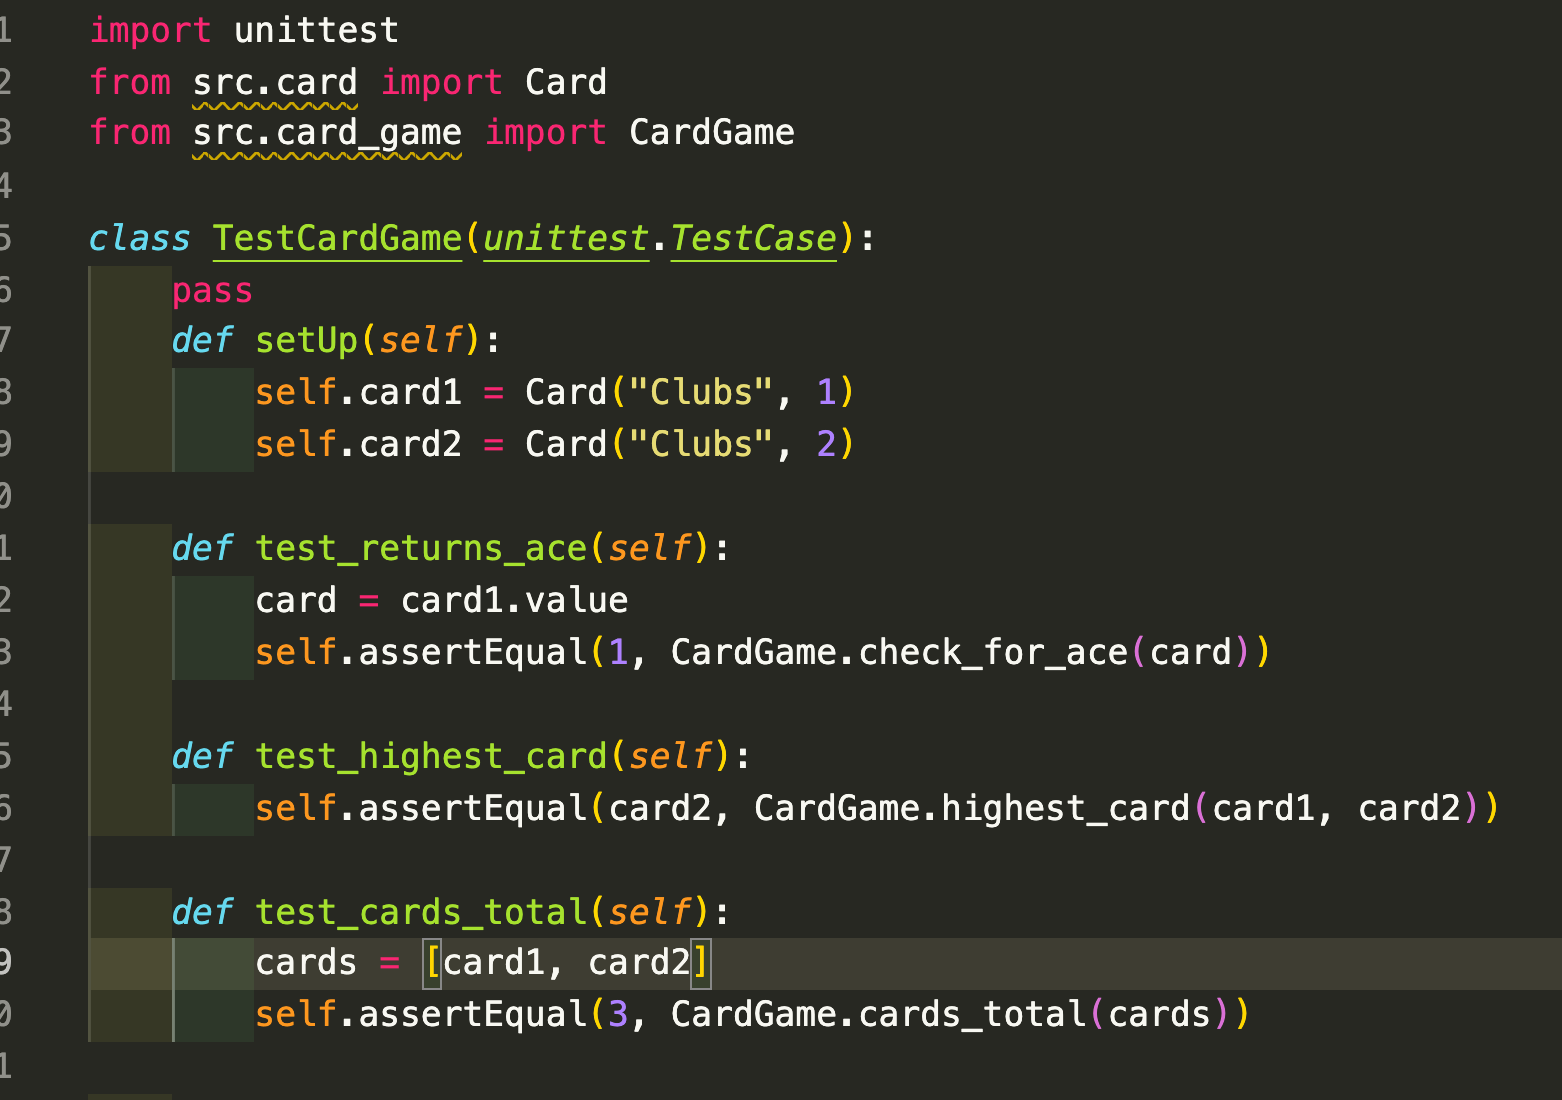
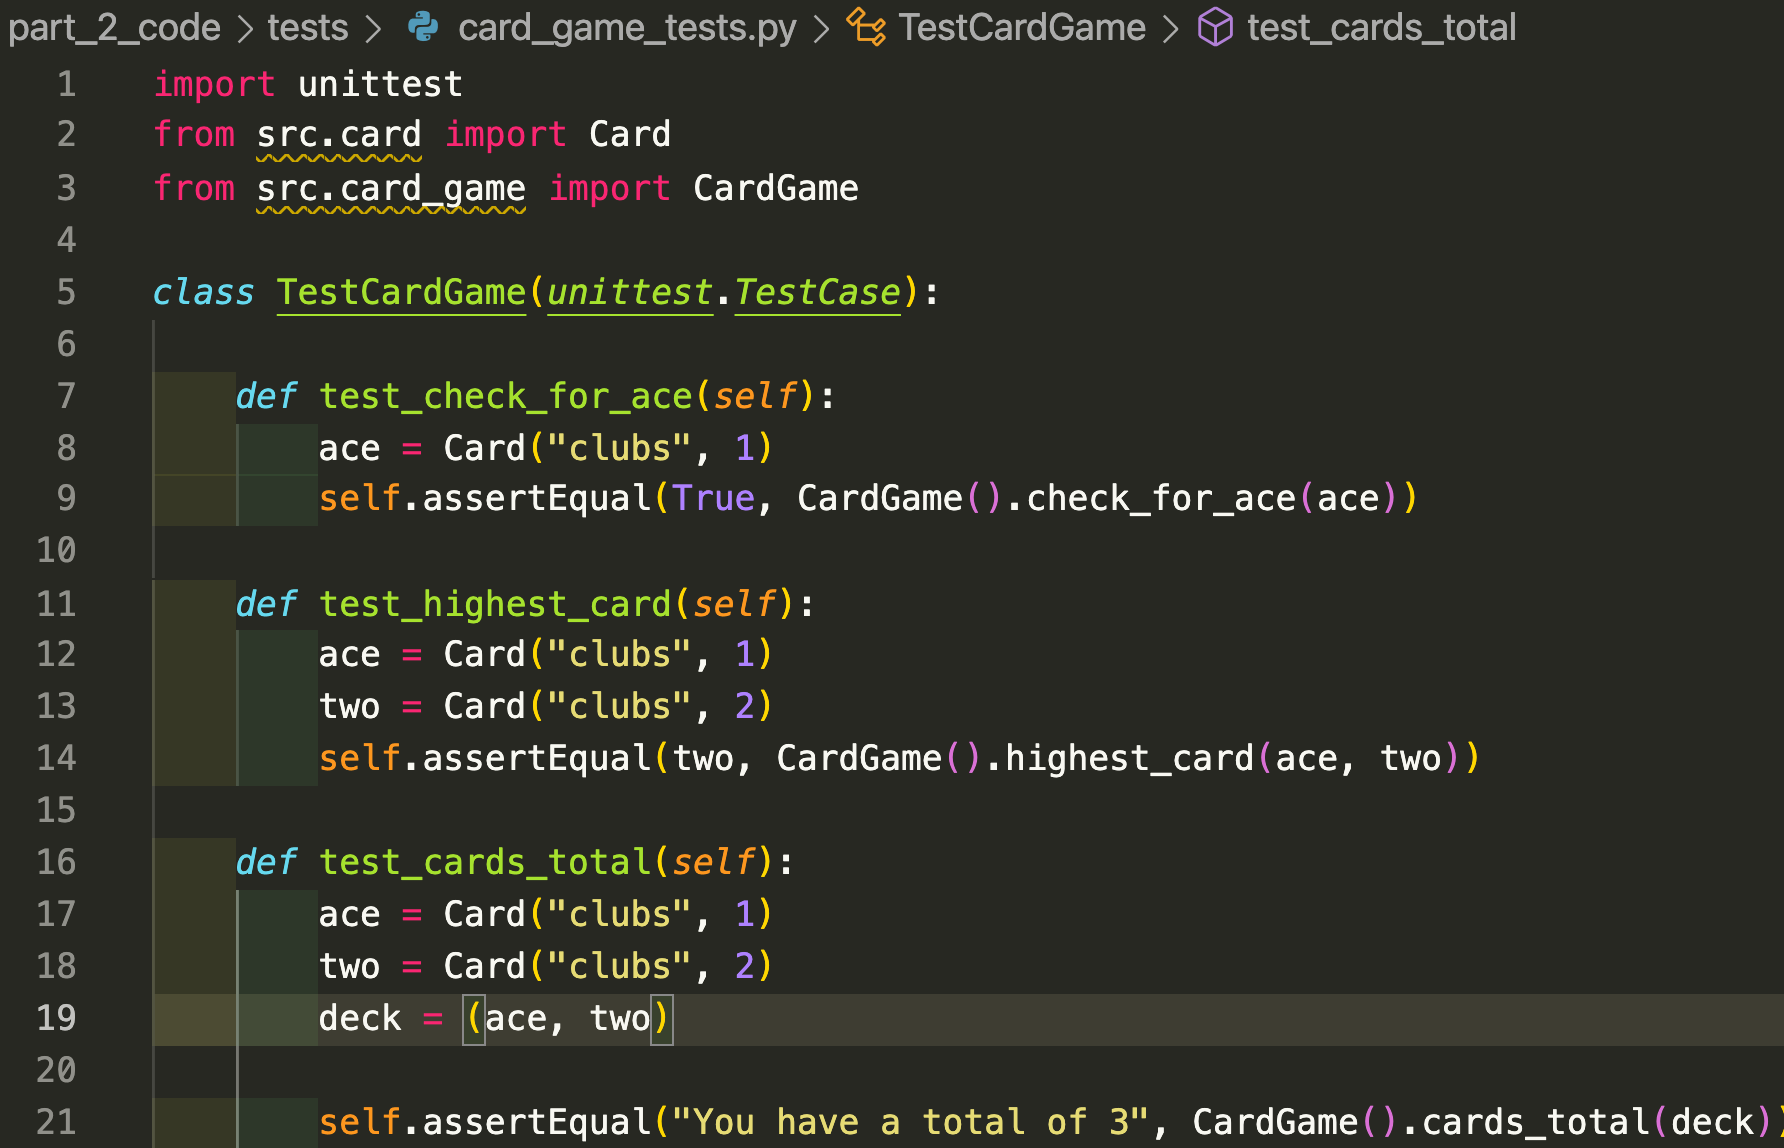
All tests passing

diff --git a/part_2_code/src/card_game.py b/part_2_code/src/card_game.py
@@ -8,22 +8,22 @@ class CardGame:
 
 
   def check_for_ace(self, card):
-    if card.value = 1:
+    if card.value == 1:
       return True
-    else
+    else:
       return False
    
 
-  dif highest_card(self, card1 card2):
-  if card1.value > card2.value:
-    return card
-  else:
-    return card2
+  def highest_card(self, card1, card2):
+    if card1.value > card2.value:
+      return card1
+    else:
+      return card2
   
 
 
-def cards_total(self, cards):
-  total
-  for card in cards:
-    total += card.value
-    return "You have a total of" + total
+  def cards_total(self, cards):
+    total = 0
+    for card in cards:
+      total += card.value
+    return "You have a total of " + str(total)

diff --git a/part_2_code/tests/card_game_tests.py b/part_2_code/tests/card_game_tests.py
@@ -1,0 +1,21 @@
+import unittest 
+from src.card import Card
+from src.card_game import CardGame
+
+class TestCardGame(unittest.TestCase):
+
+    def test_check_for_ace(self):
+        ace = Card("clubs", 1)
+        self.assertEqual(True, CardGame().check_for_ace(ace))
+
+    def test_highest_card(self):
+        ace = Card("clubs", 1)
+        two = Card("clubs", 2)
+        self.assertEqual(two, CardGame().highest_card(ace, two))
+
+    def test_cards_total(self):
+        ace = Card("clubs", 1)
+        two = Card("clubs", 2)
+        deck = (ace, two)
+
+        self.assertEqual("You have a total of 3", CardGame().cards_total(deck))

diff --git a/part_2_code/run_tests.py b/part_2_code/run_tests.py
@@ -1,5 +1,5 @@
 import unittest
-from tests.card_game_tests import TestCardGame
+from tests.card_game_tests import TestCardGame  
 
 if __name__ == "__main__":
     unittest.main()

diff --git a/part_1_docs/testing_task_1.md b/part_1_docs/testing_task_1.md
@@ -17,7 +17,7 @@ Only comment on errors that would stop the tests running.
 class CardGame:
 
 # card.value currently is assigning 1 instead of equality, should be ==
-# missing comma after else statement
+# missing : after else statement
   def check_for_ace(self, card):
     if card.value = 1:
       return True
@@ -25,6 +25,7 @@ class CardGame:
       return False
    
 # dif should be def
+# missing comma 
 # indentation in the if/else statement is not correct
 # where reads card should be card1
   dif highest_card(self, card1 card2):
@@ -37,6 +38,8 @@ class CardGame:
 # indentation of the function is not correct
 # total needs to be "total = 0" as a placeholder
 # return should have a space after "...total of "
+# return should return a string
+# return is should be in the same alignment as the for loop.
 def cards_total(self, cards):
   total
   for card in cards:
